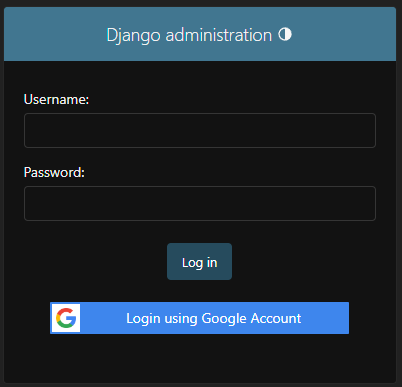
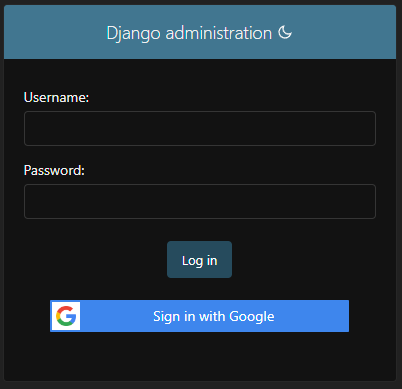
chore: fix example images

diff --git a/example_app/settings.py b/example_app/settings.py
@@ -191,7 +191,7 @@ GOOGLE_SSO_SCOPES = [  # default values
 GOOGLE_SSO_AUTHENTICATION_BACKEND = "backend.MyBackend"
 
 # Optional: Change default login text
-GOOGLE_SSO_TEXT = "Login using Google Account"
+# GOOGLE_SSO_TEXT = "Login using Google Account"
 
 # Optional: Add pre-login logic
 # GOOGLE_SSO_PRE_LOGIN_CALLBACK = "backend.pre_login_callback"

diff --git a/docs/quick_setup.md b/docs/quick_setup.md
@@ -78,7 +78,7 @@ $ python manage.py migrate
 And, that's it: **Django Google SSO** is ready for use. When you open the admin page, you will see the "Login with Google" button:
 
 === "Light Mode"
-    ![](images/django_login_with_google_white.png)
+    ![](images/django_login_with_google_light.png)
 
 === "Dark Mode"
     ![](images/django_login_with_google_dark.png)
